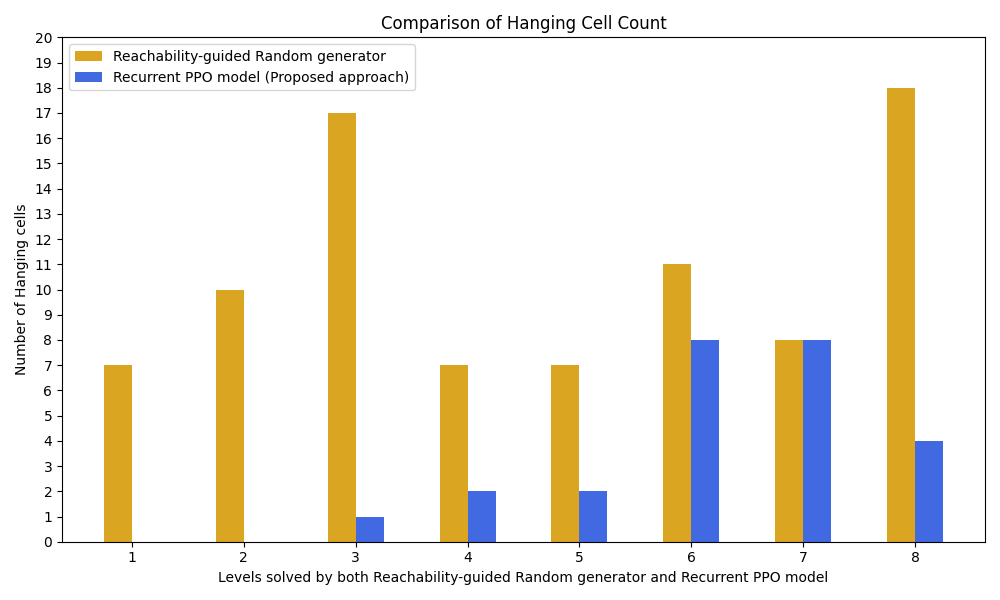
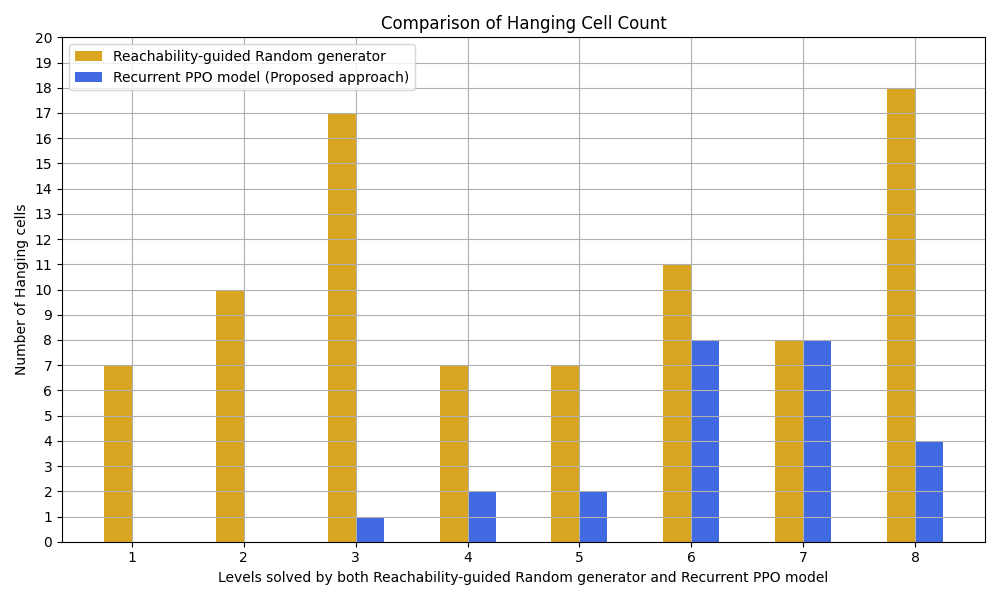
Minor changes to plot generating scripts

diff --git a/plot_generator_all_approaches.py b/plot_generator_all_approaches.py
@@ -84,10 +84,8 @@ if(__name__ == "__main__"):
         ax.set_xlabel('Level', fontsize=14)
         ax.set_ylabel('Path Complexity', fontsize=14)
         ax.set_title(f'Path Complexities in Levels - {approach_name}', fontsize=16)
-        plt.legend(handles=[solvable_patch, unsolvable_patch], loc='upper left')
-        ax.legend(fontsize=12)
+        ax.legend(handles=[solvable_patch, unsolvable_patch], loc='upper left', fontsize=12)
         ax.grid(True)
-
 
         # Save the plot locally
         plt.tight_layout()
@@ -104,8 +102,8 @@ if(__name__ == "__main__"):
         ax.set_xlabel('Level', fontsize=14)
         ax.set_ylabel('Reachability', fontsize=14)
         ax.set_title(f'Reachabilities of Levels - {approach_name}', fontsize=16)
-        plt.legend(handles=[solvable_patch, unsolvable_patch], loc='upper left')
-        ax.legend(fontsize=12)
+        ax.set_ylim((0, 1.2))
+        ax.legend(handles=[solvable_patch, unsolvable_patch], loc='upper left', fontsize=12)
         ax.grid(True)
 
         # Save the plot locally
@@ -123,8 +121,7 @@ if(__name__ == "__main__"):
         ax.set_xlabel('Level', fontsize=14)
         ax.set_ylabel('Number of Hanging cells in Level', fontsize=14)
         ax.set_title(f'Hanging cell counts - {approach_name}', fontsize=16)
-        plt.legend(handles=[solvable_patch, unsolvable_patch], loc='upper right')
-        ax.legend(fontsize=12)
+        ax.legend(handles=[solvable_patch, unsolvable_patch], loc='upper left', fontsize=12)
         ax.grid(True)
 
         # Save the plot locally

diff --git a/plot_generator_hc_comparison.py b/plot_generator_hc_comparison.py
@@ -58,7 +58,7 @@ if(__name__ == "__main__"):
     plt.yticks(np.arange(0, 21, 1))
     plt.ylim(0, 20) 
     plt.legend()
-    plt.grid(False)
+    plt.grid(True)
 
     # Save the plot locally
     plt.tight_layout()
